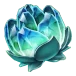
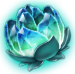
Support ascendent floret

diff --git a/static/custom/imagerender.js b/static/custom/imagerender.js
@@ -213,6 +213,13 @@ async function reload() {
 	numbertype = selecthm.value == "7000" ? 4 : 0;
 	printnumbers(preview, parseInt(selecthm.value), numbertype, 265, 1100, "end");
 
+	// Print the ascendent floret icon if selected
+	if (ascendent) {
+		await getimage(other["images"]["other"]["ascendent"]).then(img => {
+			preview.drawImage(img, 10, 502);
+		});
+	}
+
 	accessory = selectaccessory.value == "None" ? false : selectaccessory.value;
 	// If we selected an accessory we paste a newer bigger holder and define an offset to push all next items to the right
 	offset = 0;

diff --git a/static/online/form.js b/static/online/form.js
@@ -284,6 +284,13 @@ async function reload() {
 	numbertype = selecthm.value == "7000" ? 4 : 0;
 	printnumbers(preview, parseInt(selecthm.value), numbertype, 265, 1100, "end");
 
+	// Print the ascendent floret icon if selected
+	if (ascendent) {
+		await getimage(other["images"]["other"]["ascendent"]).then(img => {
+			preview.drawImage(img, 10, 502);
+		});
+	}
+
 	accessory = selectaccessory.value == "None" ? false : selectaccessory.value;
 	// If we selected an accessory we paste a newer bigger holder and define an offset to push all next items to the right
 	offset = 0;

diff --git a/app/main.py b/app/main.py
@@ -179,6 +179,10 @@ def getimage():
 		numbertype = 4 if hero["hm"] == 7000 else 0;
 		utilities.printnumbers(canvas, hero["hm"], numbertype, 265, 1100, "end");
 
+		# Print the ascendent floret icon if selected
+		if (hero["ascendent"]):
+			canvas.paste(utilities.images["other"]["ascendent"], (10, 502), utilities.images["other"]["ascendent"])
+
 		# If we selected an accessory we paste a newer bigger holder and define an offset to push all next items to the right
 		offset = 0
 		if hero["accessory"]:

diff --git a/scripts/downloadimages.py b/scripts/downloadimages.py
@@ -35,6 +35,8 @@ def download():
 		art.save(location + icon + ".webp", 'WEBP', lossless = True, quality = 100, method = 6)
 
 icons = {
+	# Ascendent
+	"ascendent": "https://static.wikia.nocookie.net/feheroes_gamepedia_en/images/c/c0/Ascendent_Floret.png?58?58",
 	# Movement types
 	"0-move": "https://static.wikia.nocookie.net/feheroes_gamepedia_en/images/4/45/Icon_Move_Infantry.png?32?32",
 	"0-flower": "https://static.wikia.nocookie.net/feheroes_gamepedia_en/images/a/a4/Dragonflower_I.png?60?60",

diff --git a/app/utilities.py b/app/utilities.py
@@ -453,6 +453,7 @@ images = {
 		"accessoryexpand": Image.open("../data/img/base/accessory-expansion.webp"),
 		"numberfont": Image.open("../data/img/base/numberfont.webp"),
 		"flowerholder": Image.open("../data/img/base/flowerholder.webp"),
+		"ascendent": Image.open("../data/img/other/ascendent.webp"),
 		"duoconversation": Image.open("../data/img/other/DuoConversation.webp"),
 		"noweapon": Image.open("../data/img/other/weapon-Refine.webp"),
 		"Duo": Image.open("../data/img/other/Duo.webp"),

diff --git a/scripts/other.py b/scripts/other.py
@@ -285,6 +285,7 @@ images = {
 		"accessoryexpand": "/common/base/accessory-expansion.webp",
 		"numberfont": "/common/base/numberfont.webp",
 		"flowerholder": "/common/base/flowerholder.webp",
+		"ascendent": "/common/other/ascendent.webp",
 		"duoconversation": "/common/other/DuoConversation.webp",
 		"noweapon": "/common/other/weapon-Refine.webp",
 		"Duo": "/common/other/Duo.webp",
